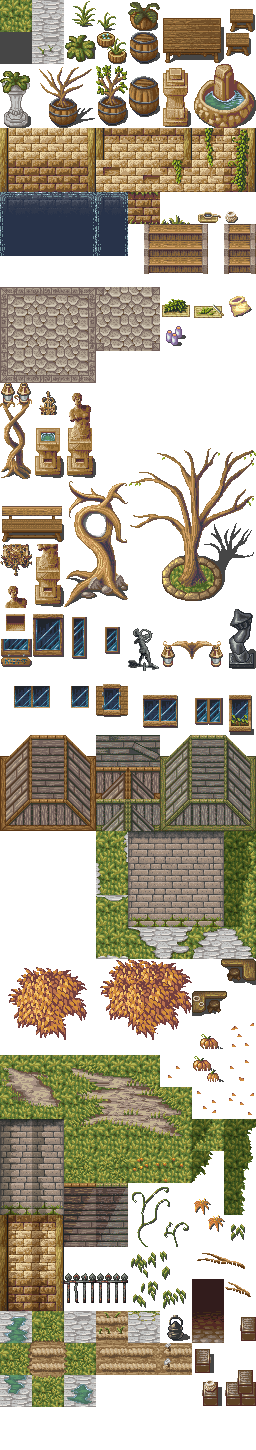
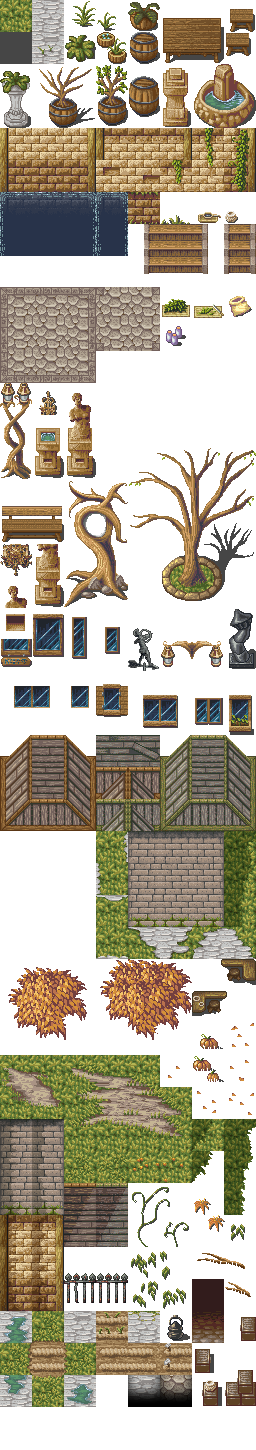
down doorways

Changed region(s): [[0.5, 0.931, 0.75, 0.9931]]

diff --git a/magecity/magecity.css b/magecity/magecity.css
@@ -1626,6 +1626,34 @@
 .magecity.doorway.trans:after {
   content: '1x2';
 }
+.magecity.doorway-down-stone {
+  z-index: 0;
+  width: 32px;
+  height: 32px;
+  background-position: -128px -1376px;
+  -webkit-transform: translate(0px, 0px);
+  -moz-transform: translate(0px, 0px);
+  -ms-transform: translate(0px, 0px);
+  -o-transform: translate(0px, 0px);
+  transform: translate(0px, 0px);
+}
+.magecity.doorway-down-stone.trans:after {
+  content: '1x1';
+}
+.magecity.doorway-down-cobble-stone {
+  z-index: 0;
+  width: 32px;
+  height: 32px;
+  background-position: -160px -1376px;
+  -webkit-transform: translate(0px, 0px);
+  -moz-transform: translate(0px, 0px);
+  -ms-transform: translate(0px, 0px);
+  -o-transform: translate(0px, 0px);
+  transform: translate(0px, 0px);
+}
+.magecity.doorway-down-cobble-stone.trans:after {
+  content: '1x1';
+}
 .magecity.x64 {
   -webkit-background-size: 512px 2904px;
   -moz-background-size: 512px 2904px;
@@ -3226,6 +3254,34 @@
 }
 .magecity.x64.doorway.trans:after {
   content: '1x2';
+}
+.magecity.x64.doorway-down-stone {
+  z-index: 0;
+  width: 64px;
+  height: 64px;
+  background-position: -256px -2752px;
+  -webkit-transform: translate(0px, 0px);
+  -moz-transform: translate(0px, 0px);
+  -ms-transform: translate(0px, 0px);
+  -o-transform: translate(0px, 0px);
+  transform: translate(0px, 0px);
+}
+.magecity.x64.doorway-down-stone.trans:after {
+  content: '1x1';
+}
+.magecity.x64.doorway-down-cobble-stone {
+  z-index: 0;
+  width: 64px;
+  height: 64px;
+  background-position: -320px -2752px;
+  -webkit-transform: translate(0px, 0px);
+  -moz-transform: translate(0px, 0px);
+  -ms-transform: translate(0px, 0px);
+  -o-transform: translate(0px, 0px);
+  transform: translate(0px, 0px);
+}
+.magecity.x64.doorway-down-cobble-stone.trans:after {
+  content: '1x1';
 }
 .x64 .magecity {
   background-image: url(magecity_0.png);
@@ -4836,4 +4892,32 @@
 }
 .x64 .magecity.doorway.trans:after {
   content: '1x2';
+}
+.x64 .magecity.doorway-down-stone {
+  z-index: 0;
+  width: 64px;
+  height: 64px;
+  background-position: -256px -2752px;
+  -webkit-transform: translate(0px, 0px);
+  -moz-transform: translate(0px, 0px);
+  -ms-transform: translate(0px, 0px);
+  -o-transform: translate(0px, 0px);
+  transform: translate(0px, 0px);
+}
+.x64 .magecity.doorway-down-stone.trans:after {
+  content: '1x1';
+}
+.x64 .magecity.doorway-down-cobble-stone {
+  z-index: 0;
+  width: 64px;
+  height: 64px;
+  background-position: -320px -2752px;
+  -webkit-transform: translate(0px, 0px);
+  -moz-transform: translate(0px, 0px);
+  -ms-transform: translate(0px, 0px);
+  -o-transform: translate(0px, 0px);
+  transform: translate(0px, 0px);
+}
+.x64 .magecity.doorway-down-cobble-stone.trans:after {
+  content: '1x1';
 }

diff --git a/magecity/magecity.less b/magecity/magecity.less
@@ -247,6 +247,8 @@
   .bp(brick-shadow-left-edge-grass-dark, @size, 1, 37, 1, 1);
 
   .bpi(doorway, @size, 6, 40, 1, 2, 0, 0, -1);
+  .bpi(doorway-down-stone, @size, 4, 43, 1, 1, 0, 0, 0);
+  .bpi(doorway-down-cobble-stone, @size, 5, 43, 1, 1, 0, 0, 0);
 }
 
 .magecity {

diff --git a/magecity/index.html b/magecity/index.html
@@ -167,6 +167,8 @@
         'double roof-wood-top-right_sand-wall',
 
         'doorway',
+        'doorway-down-stone',
+        'doorway-down-cobble-stone',
 
         'roof-bamboo-top-left',
         'roof-bamboo-top-center',
